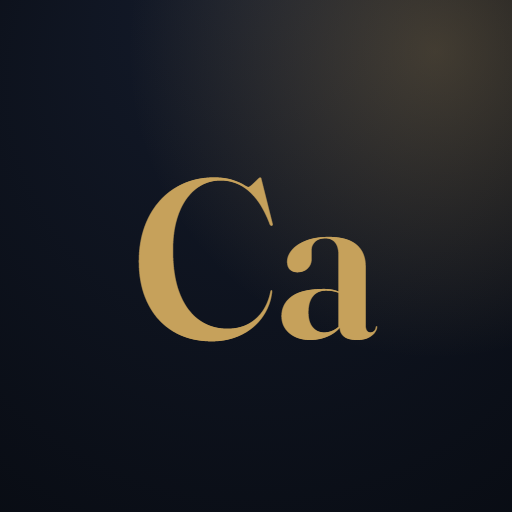
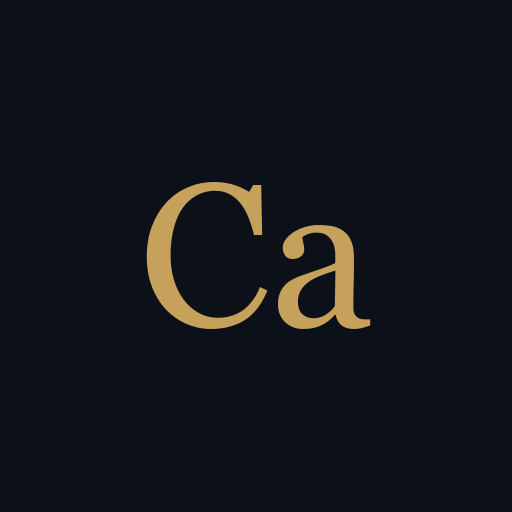
feat: avisos push probados de punta a punta; icono maskable corregido, insignia monocroma, aviso de racha y mensajes variados por dia
Probado en produccion con cuenta real. Diagnostico ?debug=1 (y ?debug=1&now=ISO para simular hora) en la Edge Function.
Pendiente del fundador: redeploy de la funcion y re-correr 002_push.sql (agrega columna streak).

Changed region(s): [[0.25, 0.0, 1.0, 0.6875]]

diff --git a/supabase/functions/send-reminders/index.ts b/supabase/functions/send-reminders/index.ts
@@ -1,6 +1,8 @@
 // Catedra · Edge Function: envía los recordatorios push. La invoca pg_cron cada hora (ver supabase/002_push.sql).
 // Secretos: VAPID_PUBLIC, VAPID_PRIVATE, VAPID_SUBJECT, CRON_SECRET (SUPABASE_URL y SUPABASE_SERVICE_ROLE_KEY ya existen).
 // Despliegue: supabase functions deploy send-reminders --no-verify-jwt   (la protege CRON_SECRET, no un JWT)
+// Diagnóstico: añade ?debug=1 a la URL para que la respuesta detalle, por preferencia, por qué se envió o no
+// (sin exponer claves ni endpoints completos) y vuelque el error real de cada intento de envío.
 import { createClient } from "jsr:@supabase/supabase-js@2";
 import webpush from "npm:web-push@3.6.7";
 import { dueFor, localParts, messageFor } from "./reminders.js";
@@ -12,6 +14,7 @@ interface Pref {
   pico_hour: number | null;
   next_exam_date: string | null;
   last_study_date: string | null;
+  streak: number | null;
   last_sent_kind: string | null;
   last_sent_on: string | null;
 }
@@ -21,35 +24,52 @@ Deno.serve(async (req: Request) => {
   const secret = Deno.env.get("CRON_SECRET");
   if (!secret || req.headers.get("x-cron-secret") !== secret) return new Response("forbidden", { status: 403 });
 
+  const url = new URL(req.url);
+  const debug = url.searchParams.get("debug") === "1";
+  // Solo en debug: deja simular "ahora" (ej. ?now=2026-10-23T19:00:00-04:00) para probar sin esperar a la hora real.
+  const nowParam = debug ? url.searchParams.get("now") : null;
   const supa = createClient(Deno.env.get("SUPABASE_URL")!, Deno.env.get("SUPABASE_SERVICE_ROLE_KEY")!);
-  webpush.setVapidDetails(Deno.env.get("VAPID_SUBJECT")!, Deno.env.get("VAPID_PUBLIC")!, Deno.env.get("VAPID_PRIVATE")!);
+  const vapidPublic = Deno.env.get("VAPID_PUBLIC") ?? "", vapidPrivate = Deno.env.get("VAPID_PRIVATE") ?? "", vapidSubject = Deno.env.get("VAPID_SUBJECT") ?? "";
+  if (!vapidPublic || !vapidPrivate || !vapidSubject) {
+    console.error("faltan secretos VAPID: public=" + !!vapidPublic + " private=" + !!vapidPrivate + " subject=" + !!vapidSubject);
+    return new Response(JSON.stringify({ sent: 0, error: "faltan secretos VAPID en la función" }), { status: 500, headers: { "Content-Type": "application/json" } });
+  }
+  webpush.setVapidDetails(vapidSubject, vapidPublic, vapidPrivate);
 
-  const now = new Date();
+  const now = nowParam && !isNaN(Date.parse(nowParam)) ? new Date(nowParam) : new Date();
   const { data: prefs, error } = await supa.from("reminder_prefs").select("*").eq("enabled", true);
-  if (error) return new Response(error.message, { status: 500 });
+  if (error) { console.error("error leyendo reminder_prefs:", error.message); return new Response(error.message, { status: 500 }); }
 
   let sent = 0;
+  const report: unknown[] = [];
   for (const p of (prefs ?? []) as Pref[]) {
     const kind: string | null = dueFor(p, now);
-    if (!kind) continue;
-    const { data: subs } = await supa.from("push_subscriptions").select("*").eq("user_id", p.user_id);
-    const payload = JSON.stringify(messageFor(kind));
+    if (!kind) { if (debug) report.push({ user: p.user_id.slice(0, 8), due: null, hora_local: localParts(now, p.tz) }); continue; }
+    const { data: subs, error: subErr } = await supa.from("push_subscriptions").select("*").eq("user_id", p.user_id);
+    if (subErr) console.error("error leyendo push_subscriptions:", subErr.message);
+    const payload = JSON.stringify(messageFor(kind, { date: localParts(now, p.tz).date, streak: p.streak || 0 }));
     let ok = false;
+    const attempts: unknown[] = [];
     for (const s of (subs ?? []) as Sub[]) {
       try {
         await webpush.sendNotification({ endpoint: s.endpoint, keys: { p256dh: s.p256dh, auth: s.auth } }, payload);
         ok = true;
+        attempts.push({ ok: true });
       } catch (e) {
-        const code = (e as { statusCode?: number }).statusCode;
-        if (code === 404 || code === 410) { // el navegador ya no acepta ese dispositivo
+        const err = e as { statusCode?: number; body?: string; message?: string };
+        console.error("fallo al enviar push a", s.endpoint.slice(0, 40), "status:", err.statusCode, "body:", err.body, "msg:", err.message);
+        attempts.push({ ok: false, statusCode: err.statusCode, body: err.body, message: err.message });
+        if (err.statusCode === 404 || err.statusCode === 410) { // el navegador ya no acepta ese dispositivo
           await supa.from("push_subscriptions").delete().eq("user_id", s.user_id).eq("endpoint", s.endpoint);
         }
       }
     }
+    if (debug) report.push({ user: p.user_id.slice(0, 8), due: kind, suscripciones: (subs ?? []).length, attempts });
     if (ok) { // solo se marca como enviado si llegó a algún dispositivo: un aviso por día, no uno por hora
       sent++;
       await supa.from("reminder_prefs").update({ last_sent_kind: kind, last_sent_on: localParts(now, p.tz).date }).eq("user_id", p.user_id);
     }
   }
-  return new Response(JSON.stringify({ sent }), { headers: { "Content-Type": "application/json" } });
+  const body = debug ? { sent, report } : { sent };
+  return new Response(JSON.stringify(body), { headers: { "Content-Type": "application/json" } });
 });

diff --git a/supabase/functions/send-reminders/reminders.js b/supabase/functions/send-reminders/reminders.js
@@ -4,10 +4,11 @@
 // Reglas de respeto al estudiante:
 //  - como máximo UN aviso por día (last_sent_on),
 //  - solo a su hora pico, y nunca antes de las 8 ni después de las 20 (hora de SU zona),
-//  - "hábito que resbala" no insiste: cada 3 días, y se calla tras 14 días sin estudiar.
+//  - "hábito que resbala" no insiste: cada 3 días, y se calla tras 14 días sin estudiar,
+//  - el texto rota entre 3 variantes por tipo (según el día), para que no se sienta un robot repitiendo.
 //
 // pref = { enabled, tz, pico_hour, next_exam_date:'YYYY-MM-DD', last_study_date:'YYYY-MM-DD',
-//          last_sent_kind, last_sent_on:'YYYY-MM-DD' }
+//          streak:n, last_sent_kind, last_sent_on:'YYYY-MM-DD' }
 
 const DEFAULT_TZ = 'America/Caracas';
 
@@ -31,8 +32,9 @@ export function daysBetween(a, b) {
 }
 
 const EXAM_MORNING_HOUR = 8;
+const STREAK_MIN = 2; // a partir de 2 días seguidos, perderla ya duele: ahí vale la pena protegerla
 
-// Qué aviso toca ahora (o null).
+// Qué aviso toca ahora (o null): 'exam-eve' | 'exam-morning' | 'streak' | 'daily' | 'slip' | null.
 export function dueFor(pref, now) {
   if (!pref || !pref.enabled) return null;
   const { date: today, hour } = localParts(now, pref.tz);
@@ -52,16 +54,50 @@ export function dueFor(pref, now) {
     if (pref.last_sent_kind === 'slip' && pref.last_sent_on && daysBetween(pref.last_sent_on, today) < 3) return null;
     return 'slip';
   }
-  if (since >= 1 && since < 3) return 'daily';
+  if (since >= 1 && since < 3) return (pref.streak || 0) >= STREAK_MIN ? 'streak' : 'daily';
   return null; // ya estudió hoy, o lleva demasiado sin venir
 }
 
-export function messageFor(kind) {
-  const msgs = {
-    'exam-eve': { title: 'Mañana tienes examen', body: 'Un repaso corto hoy te deja más tranquilo. Empieza por lo más débil.' },
-    'exam-morning': { title: 'Hoy es tu examen', body: 'Un último vistazo rápido a lo esencial y a confiar. ¡Suerte!' },
-    daily: { title: 'Tu repaso de hoy', body: 'Unos minutos ahora y lo de hoy queda guardado.' },
-    slip: { title: 'Te echamos de menos', body: 'Una sesión corta te devuelve el ritmo. Sin presión.' }
+// Elige una variante de texto sin azar real: misma fecha → mismo texto (no cambia si el cron reintenta),
+// pero distinta fecha → casi siempre otro texto. Así no se siente repetitivo ni impredecible.
+function pick(list, seed) {
+  let h = 0;
+  for (let i = 0; i < seed.length; i++) h = (h * 31 + seed.charCodeAt(i)) >>> 0;
+  return list[h % list.length];
+}
+
+export function messageFor(kind, opts) {
+  opts = opts || {};
+  const seed = (opts.date || '') + kind;
+  const sets = {
+    'exam-eve': [
+      { title: 'Mañana tienes examen', body: 'Un repaso corto hoy te deja más tranquilo. Empieza por lo más débil.' },
+      { title: 'El examen es mañana', body: 'No es momento de aprender algo nuevo: repasa lo que ya sabes y descansa bien.' },
+      { title: 'Último repaso antes del examen', body: '15 minutos hoy valen más que una noche entera mañana.' },
+    ],
+    'exam-morning': [
+      { title: 'Hoy es tu examen', body: 'Un último vistazo rápido a lo esencial y a confiar. ¡Suerte!' },
+      { title: 'Es el día', body: 'Ya hiciste el trabajo. Respira, repasa 5 minutos y a demostrarlo.' },
+    ],
+    streak: [
+      { title: 'No rompas tu racha', body: 'Llevas {n} días seguidos. 5 minutos hoy y la mantienes viva.' },
+      { title: 'Tu racha de {n} días te espera', body: 'Un repaso cortico y sigues sumando.' },
+      { title: '{n} días seguidos. ¿Hoy también?', body: 'No hace falta mucho: con poco alcanza para no cortarla.' },
+    ],
+    daily: [
+      { title: 'Tu repaso de hoy', body: 'Unos minutos ahora y lo de hoy queda guardado.' },
+      { title: '¿Un ratico para repasar?', body: 'Lo poco y seguido rinde más que lo mucho de una vez.' },
+      { title: 'Catedra te espera', body: 'Una sesión corta hoy te ahorra un repaso largo después.' },
+    ],
+    slip: [
+      { title: 'Te echamos de menos', body: 'Una sesión corta te devuelve el ritmo. Sin presión.' },
+      { title: '¿Seguimos donde lo dejamos?', body: 'Volver cuesta el primer minuto; lo demás es más fácil de lo que crees.' },
+      { title: 'Tu material sigue ahí', body: 'Cuando quieras retomar, Catedra arranca donde lo dejaste.' },
+    ],
   };
-  return Object.assign({ url: '/app' }, msgs[kind] || { title: 'Catedra', body: 'Tienes algo pendiente.' });
+  const list = sets[kind];
+  if (!list) return { title: 'Catedra', body: 'Tienes algo pendiente.', url: '/app' };
+  const m = pick(list, seed);
+  const n = String(opts.streak || '');
+  return { title: m.title.replace('{n}', n), body: m.body.replace('{n}', n), url: '/app' };
 }

diff --git a/sw.js b/sw.js
@@ -1,6 +1,6 @@
-const VERSION = 'catedra-v42';
+const VERSION = 'catedra-v43';
 const SHARE_CACHE = 'catedra-share';
-const PRECACHE = ['./app.html', './index.html', './manifest.json', './assets/icon-192.png', './assets/icon-512.png', './assets/apple-touch-icon.png', './js/vendor/ts-fsrs.umd.js', './js/srs.js', './js/study.js', './js/tutor.js', './js/agenda.js', './js/profile.js', './js/examloop.js', './js/push.js', './js/voice.js', './js/diag.js', './js/data.js', './js/ai.js', './js/apply.js','./js/habits.js','./js/survey.js','./js/space.js','./js/strategies.js','./js/areas.js','./js/experiment.js','./js/hub.js','./js/coach.js','./js/pack.js','./js/focus.js','./js/brain.js', './js/track.js', './js/sync.js', './js/cloud.js', './privacidad.html', './acerca.html'];
+const PRECACHE = ['./app.html', './index.html', './manifest.json', './assets/icon-192.png', './assets/icon-512.png', './assets/badge-96.png', './assets/badge-128.png', './assets/icon-maskable-512.png', './assets/apple-touch-icon.png', './js/vendor/ts-fsrs.umd.js', './js/srs.js', './js/study.js', './js/tutor.js', './js/agenda.js', './js/profile.js', './js/examloop.js', './js/push.js', './js/voice.js', './js/diag.js', './js/data.js', './js/ai.js', './js/apply.js','./js/habits.js','./js/survey.js','./js/space.js','./js/strategies.js','./js/areas.js','./js/experiment.js','./js/hub.js','./js/coach.js','./js/pack.js','./js/focus.js','./js/brain.js', './js/track.js', './js/sync.js', './js/cloud.js', './privacidad.html', './acerca.html'];
 
 self.addEventListener('install', e => {
   e.waitUntil(caches.open(VERSION).then(c => c.addAll(PRECACHE.map(u => new Request(u, { cache: 'reload' })))));
@@ -90,7 +90,7 @@ self.addEventListener('push', e => {
   e.waitUntil(self.registration.showNotification(d.title || 'Catedra', {
     body: d.body || '',
     icon: './assets/icon-192.png',
-    badge: './assets/icon-192.png',
+    badge: './assets/badge-96.png',
     tag: 'catedra-aviso',            // un aviso nuevo reemplaza al anterior en vez de apilarse
     data: { url: d.url || '/app' }
   }));

diff --git a/js/push.js b/js/push.js
@@ -17,6 +17,15 @@
     const days = (st.streakDays||[]).concat((st.sessionLog||[]).map(x=>x.date)).filter(d=>/^\d{4}-\d{2}-\d{2}$/.test(d||''));
     return days.length ? days.sort().pop() : null;
   }
+  // Días consecutivos hasta el último que practicó (así, si hoy aún no estudió, el aviso dice bien "llevas N días")
+  function addDaysISO(d,n){ const [y,m,dd]=d.split('-').map(Number); const dt=new Date(Date.UTC(y,m-1,dd)); dt.setUTCDate(dt.getUTCDate()+n); return dt.toISOString().slice(0,10); }
+  function streakChain(st){
+    const set = new Set((st.streakDays||[]).filter(d=>/^\d{4}-\d{2}-\d{2}$/.test(d||'')));
+    if(!set.size) return 0;
+    let cur = [...set].sort().pop(), n = 0;
+    while(set.has(cur)){ n++; cur = addDaysISO(cur,-1); }
+    return n;
+  }
   // Fecha de la próxima evaluación de todas las materias
   function nextExamDate(st, today, nextEval){
     const t = today || iso(new Date());
@@ -26,14 +35,14 @@
     return f[0] || null;
   }
   function prefsFor(st, today, tz, nextEval){
-    return { next_exam_date:nextExamDate(st,today,nextEval), pico_hour:hourFromPico(st.profile&&st.profile.picoProductividad), tz:tz||'America/Caracas', last_study_date:lastStudyDate(st), enabled:true };
+    return { next_exam_date:nextExamDate(st,today,nextEval), pico_hour:hourFromPico(st.profile&&st.profile.picoProductividad), tz:tz||'America/Caracas', last_study_date:lastStudyDate(st), streak:streakChain(st), enabled:true };
   }
   function b64urlToBytes(s){
     const b = (s+'='.repeat((4-s.length%4)%4)).replace(/-/g,'+').replace(/_/g,'/'), raw = atob(b);
     return Uint8Array.from(raw, c=>c.charCodeAt(0));
   }
 
-  const api = { hourFromPico, lastStudyDate, nextExamDate, prefsFor, VAPID_PUBLIC };
+  const api = { hourFromPico, lastStudyDate, nextExamDate, streakChain, prefsFor, VAPID_PUBLIC };
   if(typeof document==='undefined'){ if(typeof module!=='undefined'&&module.exports) module.exports = api; return; }
 
   /* ───────── Navegador ───────── */

diff --git a/tests/reminders.test.js b/tests/reminders.test.js
@@ -77,3 +77,30 @@ test('messageFor: texto para cada caso y un genérico seguro', () => {
   }
   assert.ok(R.messageFor('nada').title);
 });
+
+test('racha en riesgo: con racha ≥2 el aviso es "streak" en vez de "daily" (misma ventana, sin avisar más veces)', () => {
+  const t = at('2026-10-22T19:00:00Z');
+  assert.equal(R.dueFor(base({ last_study_date: '2026-10-21', streak: 2 }), t), 'streak');
+  assert.equal(R.dueFor(base({ last_study_date: '2026-10-21', streak: 1 }), t), 'daily', 'con 1 día aún no es "racha"');
+  assert.equal(R.dueFor(base({ last_study_date: '2026-10-21', streak: 0 }), t), 'daily');
+  assert.equal(R.dueFor(base({ last_study_date: '2026-10-19', streak: 5 }), t), 'slip', 'si ya resbaló 3+ días, manda "slip", no "streak"');
+});
+
+test('messageFor: cada tipo tiene texto, "{n}" se rellena con la racha, y el mismo día da siempre el mismo texto', () => {
+  for (const k of ['exam-eve', 'exam-morning', 'streak', 'daily', 'slip']) {
+    const m = R.messageFor(k, { date: '2026-10-22', streak: 4 });
+    assert.ok(m.title && m.body && m.url === '/app', k);
+    assert.ok(!m.title.includes('{n}') && !m.body.includes('{n}'), k + ': sin plantillas sueltas');
+  }
+  const a = R.messageFor('streak', { date: '2026-10-22', streak: 4 });
+  const b = R.messageFor('streak', { date: '2026-10-22', streak: 4 });
+  assert.deepEqual(a, b, 'mismo día, mismo texto (no cambia si el cron reintenta)');
+  assert.ok(a.title.includes('4') || a.body.includes('4'), 'la racha aparece en el texto');
+  assert.ok(R.messageFor('nada', {}).title);
+});
+
+test('messageFor: rota entre variantes en distintos días (no se siente repetitivo)', () => {
+  const days = ['2026-10-20', '2026-10-21', '2026-10-22', '2026-10-23', '2026-10-24', '2026-10-25'];
+  const texts = new Set(days.map(d => R.messageFor('daily', { date: d }).body));
+  assert.ok(texts.size >= 2, 'con 6 días distintos, al menos dos variantes aparecen');
+});

diff --git a/tests/push.test.js b/tests/push.test.js
@@ -27,11 +27,18 @@ test('próxima evaluación: la más cercana de todas las materias, sin contar la
   assert.equal(P.nextExamDate({ subjects: [] }, '2026-10-22', nextEval), null);
 });
 
-test('prefsFor manda solo fechas y hora (nada del contenido de estudio)', () => {
-  const st = { subjects: [{ nombre: 'Biología secreta', evals: [{ fecha: '2026-10-25' }] }], profile: { picoProductividad: 'noche' }, streakDays: ['2026-10-21'] };
+test('prefsFor manda solo fechas, hora y racha (nada del contenido de estudio)', () => {
+  const st = { subjects: [{ nombre: 'Biología secreta', evals: [{ fecha: '2026-10-25' }] }], profile: { picoProductividad: 'noche' }, streakDays: ['2026-10-20', '2026-10-21'] };
   const p = P.prefsFor(st, '2026-10-22', 'America/Bogota', nextEval);
-  assert.deepEqual(p, { next_exam_date: '2026-10-25', pico_hour: 20, tz: 'America/Bogota', last_study_date: '2026-10-21', enabled: true });
+  assert.deepEqual(p, { next_exam_date: '2026-10-25', pico_hour: 20, tz: 'America/Bogota', last_study_date: '2026-10-21', streak: 2, enabled: true });
   assert.ok(!JSON.stringify(p).includes('Biología'));
+});
+
+test('streakChain: cuenta días consecutivos hasta el último que practicó, aunque hoy aún no haya estudiado', () => {
+  assert.equal(P.streakChain({ streakDays: [] }), 0);
+  assert.equal(P.streakChain({ streakDays: ['2026-10-20', '2026-10-21', '2026-10-22'] }), 3);
+  assert.equal(P.streakChain({ streakDays: ['2026-10-15', '2026-10-21', '2026-10-22'] }), 2, 'un hueco corta la cadena antes');
+  assert.equal(P.streakChain({ streakDays: ['2026-10-10'] }), 1);
 });
 
 test('la clave pública VAPID es un punto P-256 sin comprimir (65 bytes en base64url)', () => {

diff --git a/docs/BITACORA.md b/docs/BITACORA.md
@@ -4,6 +4,18 @@ Documento maestro: qué se hizo, en qué commit, y por qué. Lo más nuevo arrib
 
 ---
 
+## 2026-10-23 · feat: avisos push probados de punta a punta, icono corregido y mensajes variados ("racha")
+**Probado con el fundador en producción:** cuenta creada, VAPID desplegado, suscripción del celular confirmada en `push_subscriptions`, y un aviso real llegó al teléfono tras forzar las condiciones (`?debug=1&now=...` en la Edge Function). En el camino se corrigieron dos confusiones reales que habrían hecho perder tiempo a cualquiera: `current_date` en SQL usa la fecha UTC del servidor, no la del estudiante (hay que calcular "hoy"/"ayer" con `(now() at time zone tz)::date`); y la ventana de avisos (8–20 hora local) es así a propósito, no se puede probar pasadas las 20h sin simular la hora.
+**Diagnóstico en la función** (`supabase/functions/send-reminders/index.ts`): `?debug=1` devuelve, por estudiante, si le tocaba aviso y por qué no si no le tocó, y el error real de cada intento de envío (antes fallaba en silencio). `?debug=1&now=ISO` además simula la hora, para probar sin esperar al cron. Nunca se activa sin el `CRON_SECRET`.
+**Icono:** el ícono "maskable" tenía el texto "Ca" pegado a los bordes — al recortarlo en círculo (Android) se cortaba. Se recentró dentro de la zona segura (66% central). Se añadió una insignia monocroma (`assets/badge-96.png`, `badge-128.png`): antes la notificación usaba el ícono a color completo como insignia de la barra de estado, que Android no tiñe y se ve como un cuadrado gris; ahora es una "C" blanca sobre transparente, pensada para leerse a tamaño diminuto.
+**Mensajes más variados, menos "pesados":**
+- Nuevo tipo de aviso **"racha"**: si el estudiante lleva 2+ días seguidos y hoy aún no practica, el aviso (mismo horario y mismo tope de uno al día que ya existía) dice "no rompas tu racha de N días" en vez del genérico "tu repaso de hoy". Con menos de 2 días, sigue como "daily".
+- Cada tipo de aviso tiene 2–3 variantes de texto que rotan por fecha (mismo día = mismo texto, para que un reintento del cron no cambie el mensaje; otro día = probablemente otro). Nada de azar real ni de enviar más veces: sigue siendo un aviso al día como máximo.
+- `supabase/002_push.sql`: columna `streak` (con `add column if not exists`, no pierde datos si ya existía la tabla). `js/push.js`: `streakChain()` calcula la racha hasta el último día que estudió (aunque hoy aún no haya practicado) y la sube en cada sincronización.
+- Tests: 164 (antes 160). Nuevas: racha vs. diario, variedad de mensajes estable por día, `streakChain`.
+**Pendiente del fundador:** re-desplegar la función (`supabase functions deploy send-reminders --no-verify-jwt`) y volver a correr `supabase/002_push.sql` (agrega la columna `streak` sin tocar lo que ya había).
+`sw.js` → `catedra-v43`.
+
 ## 2026-10-22 · feat: Ajustes a un toque, Progreso en bento, auditoría de todas las pantallas y avisos listos para encender
 **Experiencia de usuario**
 - **Ajustes en una pantalla propia** (`view-settings`), a un toque desde un avatar con la inicial del estudiante (arriba a la derecha en Hoy y Progreso, y botón al final de Progreso). Agrupa: nombre editable; **Cómo estudias** (concentración, hora en que rinde, qué le cuesta — editables siempre, y muestra el método resultante); cuenta y avisos; recordatorios de calendario; tus datos (respaldar, restaurar, copiar resultados, borrar, en mosaicos); privacidad (interruptor); la app (versión, buscar actualización, IA). Se movieron los mismos elementos (mismos `id`), así que respaldo, cuenta, IA y privacidad siguen conectados.
